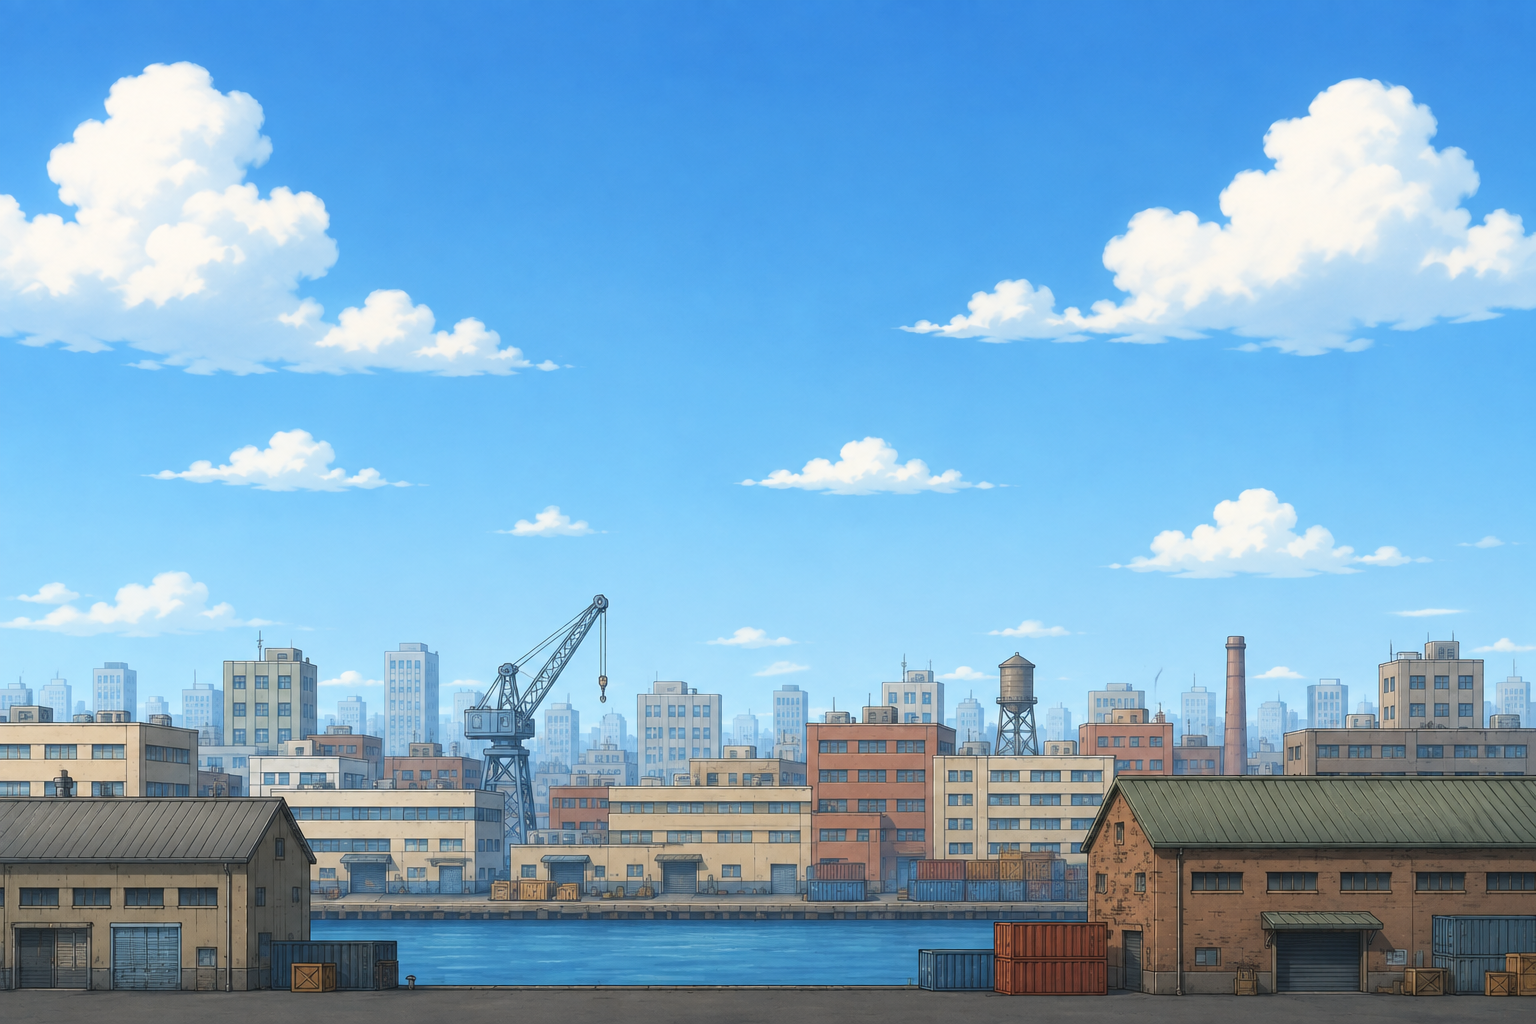
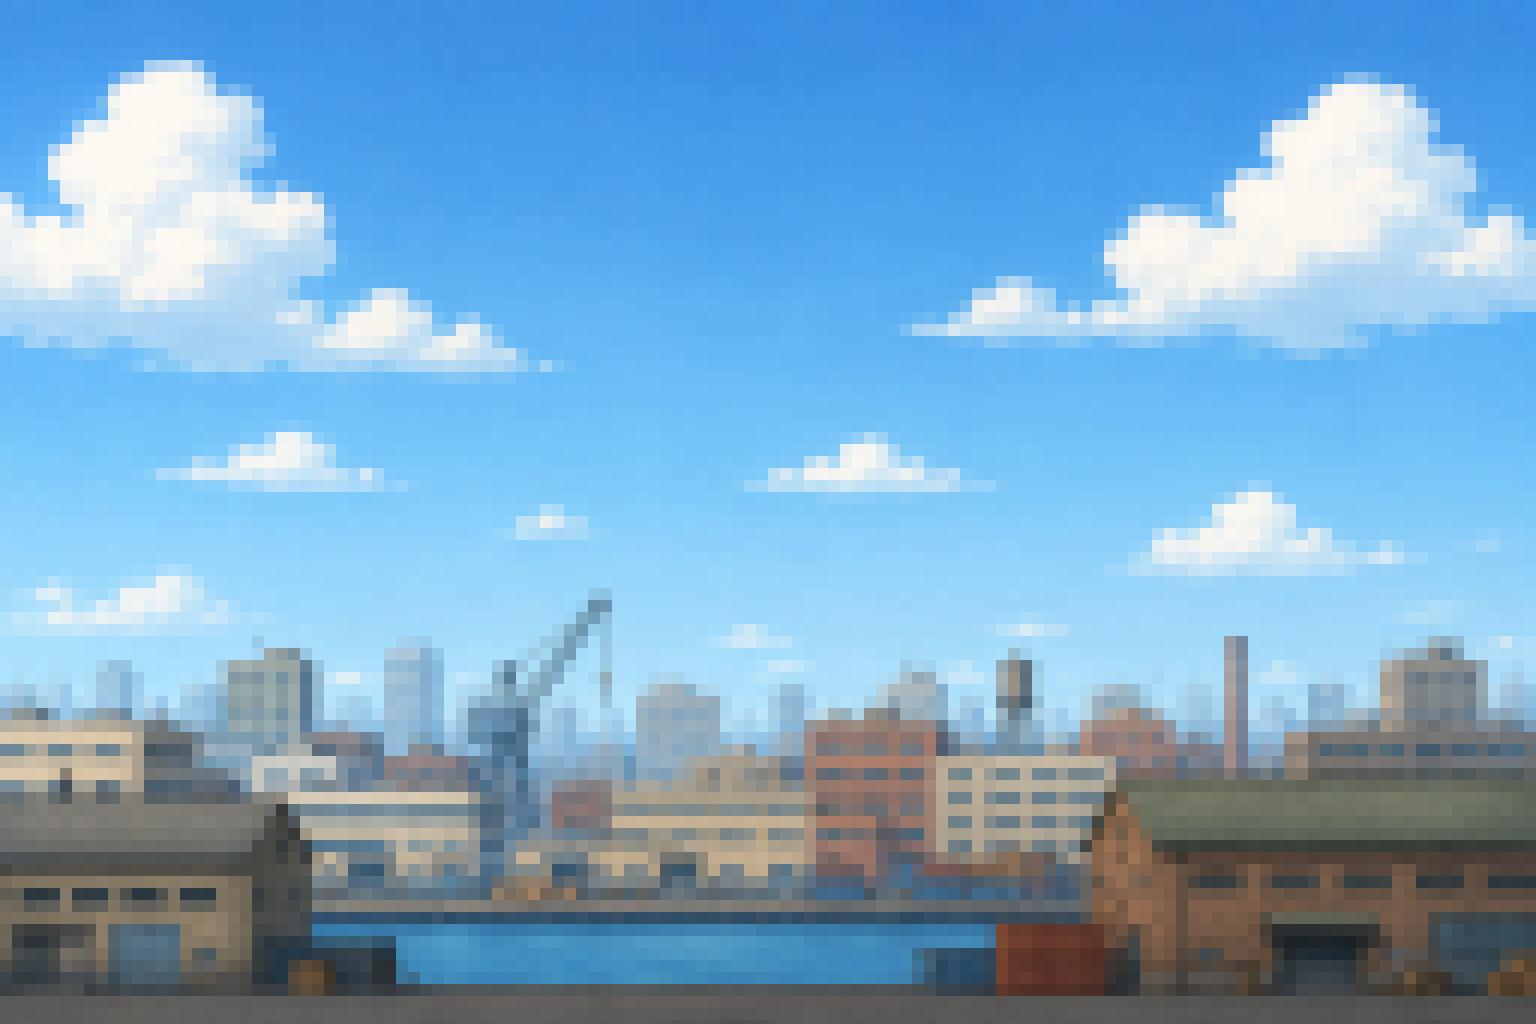
Fix cityscape background not displaying
Fixed two bugs preventing background from showing:

1. Texture loading timing (primary issue):
   - Texture.from() loads async in PixiJS v8
   - Setting sprite.width/height immediately used placeholder 1x1 dimensions
   - Resulted in massive scale (1280x) that rendered sprite off-screen
   - Fix: Use Sprite.from() + texture.source.on('update') event
   - Only set dimensions after real image data loads

2. Z-ordering bug:
   - drawBackgroundGrid() used addChildAt(grid, 0)
   - Pushed background sprite from index 0 to 1
   - Grid rendered behind background (invisible)
   - Fix: addChildAt(grid, 1) for correct order: bg(0), grid(1), platforms(2+)

Changes:
- Removed unused Texture import
- Sprite.from() instead of Texture.from() + new Sprite()
- Event-based resize after texture loads
- Grid at index 1 instead of 0

Fixes user report: 'background is not showing'

diff --git a/apps/client/src/renderer/StageRenderer.ts b/apps/client/src/renderer/StageRenderer.ts
@@ -1,4 +1,4 @@
-import { Graphics, Container, Sprite, Texture } from 'pixi.js';
+import { Graphics, Container, Sprite } from 'pixi.js';
 import { STAGE } from '@smash/shared';
 
 // B&W colors
@@ -87,16 +87,27 @@ export class StageRenderer {
       grid.lineTo(STAGE.WIDTH, y);
     }
     grid.stroke({ color: gridColor, width: 1, alpha: gridAlpha });
-    this.container.addChildAt(grid, 0); // Behind platforms
+    this.container.addChildAt(grid, 1); // Above background (0), behind platforms (2+)
   }
 
   private drawBackground(): void {
     try {
-      const bgTexture = Texture.from('/backgrounds/cityscape.png');
-      const bgSprite = new Sprite(bgTexture);
-      bgSprite.width = STAGE.WIDTH;
-      bgSprite.height = STAGE.HEIGHT;
+      const bgSprite = Sprite.from('/backgrounds/cityscape.png');
+      bgSprite.position.set(0, 0);
       this.container.addChildAt(bgSprite, 0);
+
+      const resizeToStage = (): void => {
+        bgSprite.width = STAGE.WIDTH;
+        bgSprite.height = STAGE.HEIGHT;
+      };
+
+      // Texture may already be cached — check source dimensions
+      if (bgSprite.texture.source.width > 1 && bgSprite.texture.source.height > 1) {
+        resizeToStage();
+      } else {
+        // Set dimensions once the image actually loads
+        bgSprite.texture.source.on('update', resizeToStage);
+      }
     } catch (error) {
       console.warn('[StageRenderer] Failed to load background image:', error);
     }
